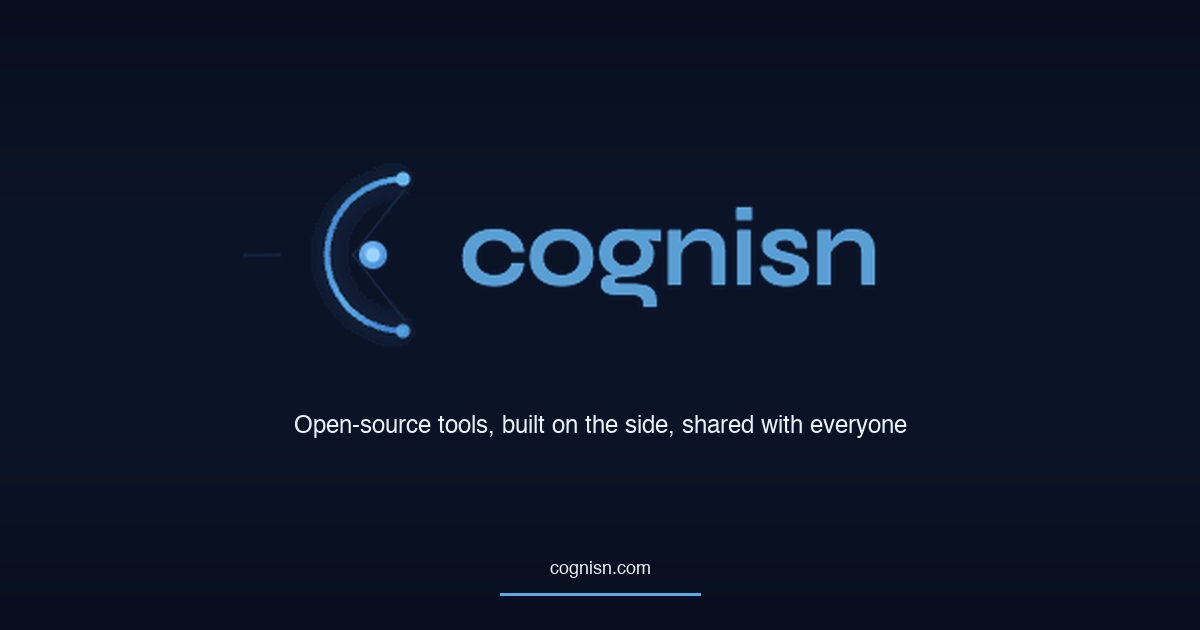
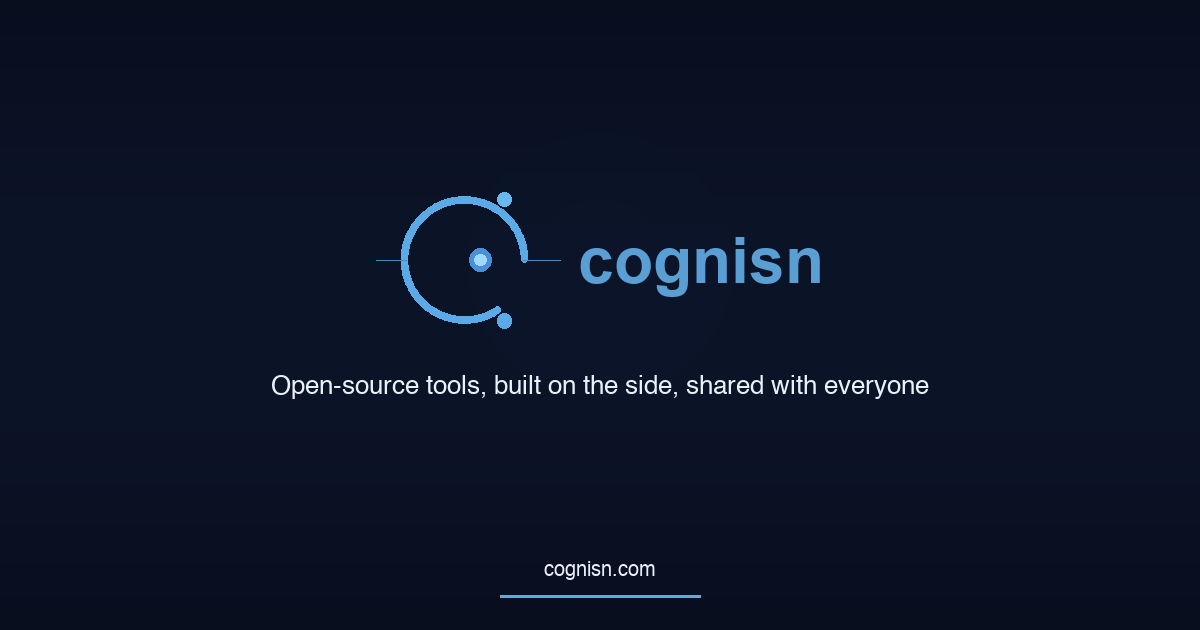
High-quality OG cards and per-post OG image support
- Regenerated default og-card.png at native 1200x630 (no upscaling)
- Created og-spark-release.png for the Spark v0.1.0 blog post
- Added og_image frontmatter field to build.py for per-post OG images
- Spark blog post uses dedicated OG card for LinkedIn sharing

diff --git a/build.py b/build.py
@@ -177,6 +177,7 @@ def parse_post(filepath):
         "url": f"/blog/{slug}.html",
         "body_html": body_html,
         "author": meta.get("author", "Matthew Westwood-Hill"),
+        "og_image": meta.get("og_image", ""),
     }
 
 
@@ -186,7 +187,8 @@ def generate_article_html(post):
     """Generate a full HTML page for a blog article."""
     tags_html = "".join(f'<span class="tag">{t}</span>' for t in post["tags"])
 
-    og_image = f'<meta property="og:image" content="{SITE_URL}/images/og-card.png">'
+    og_img_path = post["og_image"] if post["og_image"] else "/images/og-card.png"
+    og_image = f'<meta property="og:image" content="{SITE_URL}{og_img_path}">'
 
     giscus_html = ""
     if GISCUS_REPO_ID and GISCUS_CATEGORY_ID:

diff --git a/blog/posts/spark-v0.1.0-release.md b/blog/posts/spark-v0.1.0-release.md
@@ -7,6 +7,7 @@ tags:
   - Release
   - AI
   - Open Source
+og_image: /images/og-spark-release.png
 ---
 
 After months of late nights, weekend coding sessions, and way too many alpha builds — Spark v0.1.0 is here. The first production release of a project that started as "what if I could talk to every AI model from one place?" and turned into something significantly more ambitious.
